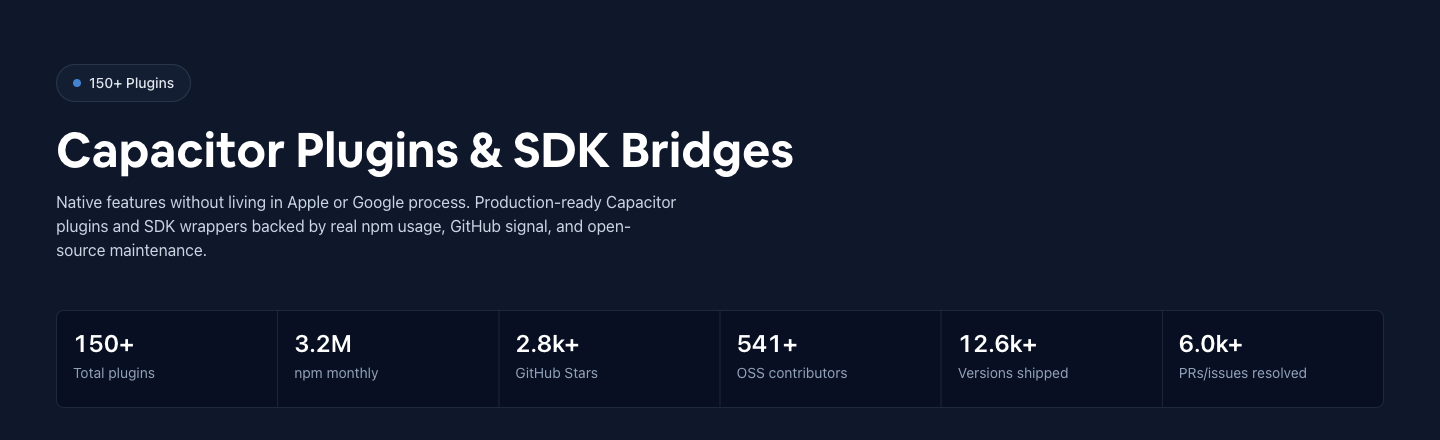
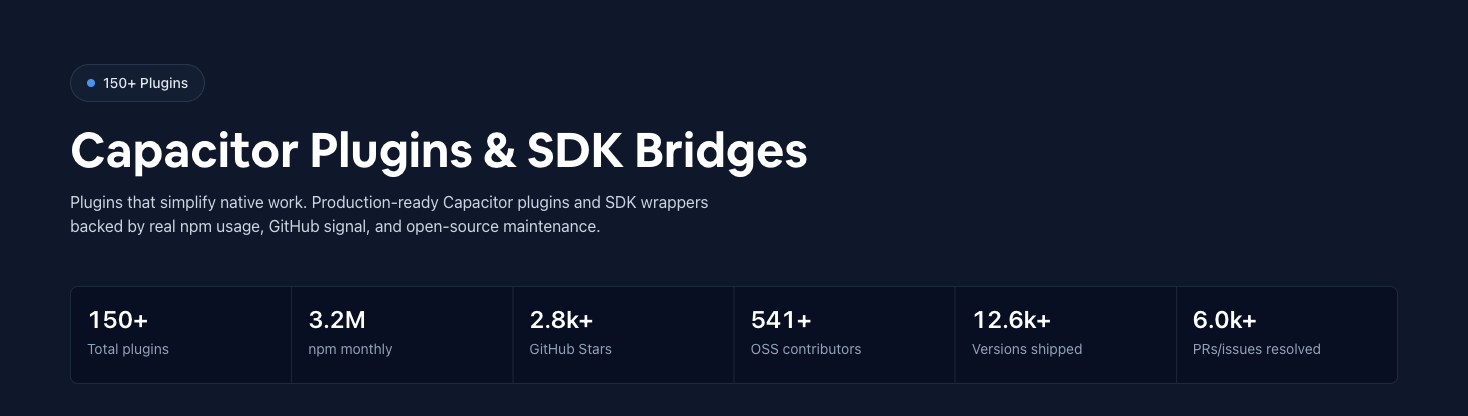
copy: keep skip-store claims scoped to web updates
Plugins and About copy no longer imply native binaries skip Apple or Google review.

diff --git a/apps/shared/copy/messages.ts b/apps/shared/copy/messages.ts
@@ -18,7 +18,7 @@ const messages = {
   about: 'About',
   about_capgo: 'About Capgo',
   about_capgo_description:
-    'Capgo takes a different path than store-process tooling: shortcuts Capacitor teams use to skip App Store and Google Play delays. Live updates, native builds, and plugins that make shipping simpler.',
+    'Capgo takes a different path than store-process tooling: shortcuts Capacitor teams use to skip App Store and Google Play delays. Live updates, native builds, and plugins make shipping simpler.',
   access_maintain_enterprise_plugins: 'Access and maintain our enterprise-grade Capacitor plugins with priority support and dedicated maintenance.',
   ach_available_for_enterprise_annual_payments: 'ACH is available only for annual payments from Enterprise plan customers. Contact us for more information.',
   active_users_up_to_date: 'of active users receive updates within 24 hours',
@@ -2815,7 +2815,7 @@ const messages = {
   plugins_custom_plugin_title: 'Need a custom SDK bridge?',
   plugins_directory: 'Capacitor Plugins & SDK Bridges',
   plugins_directory_description:
-    'Native features without living in Apple or Google process. Production-ready Capacitor plugins and SDK wrappers backed by real npm usage, GitHub signal, and open-source maintenance.',
+    'Plugins that simplify native work. Production-ready Capacitor plugins and SDK wrappers backed by real npm usage, GitHub signal, and open-source maintenance.',
   plugins_more_plugins_cta: 'Browse Capgo GitHub',
   plugins_more_plugins_description: 'Check the Capgo GitHub org for more open-source bridges, experiments, and community-maintained plugin work.',
   plugins_more_plugins_title: 'Need a plugin we have not listed yet?',
